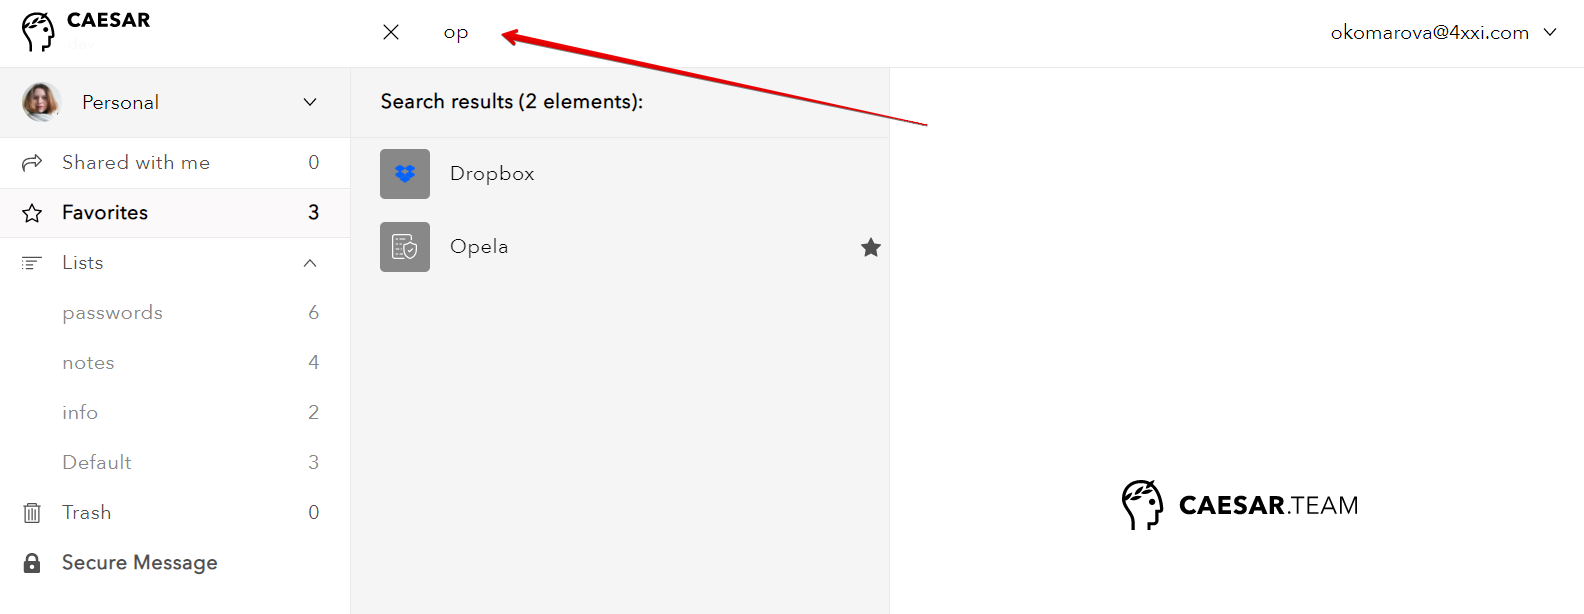
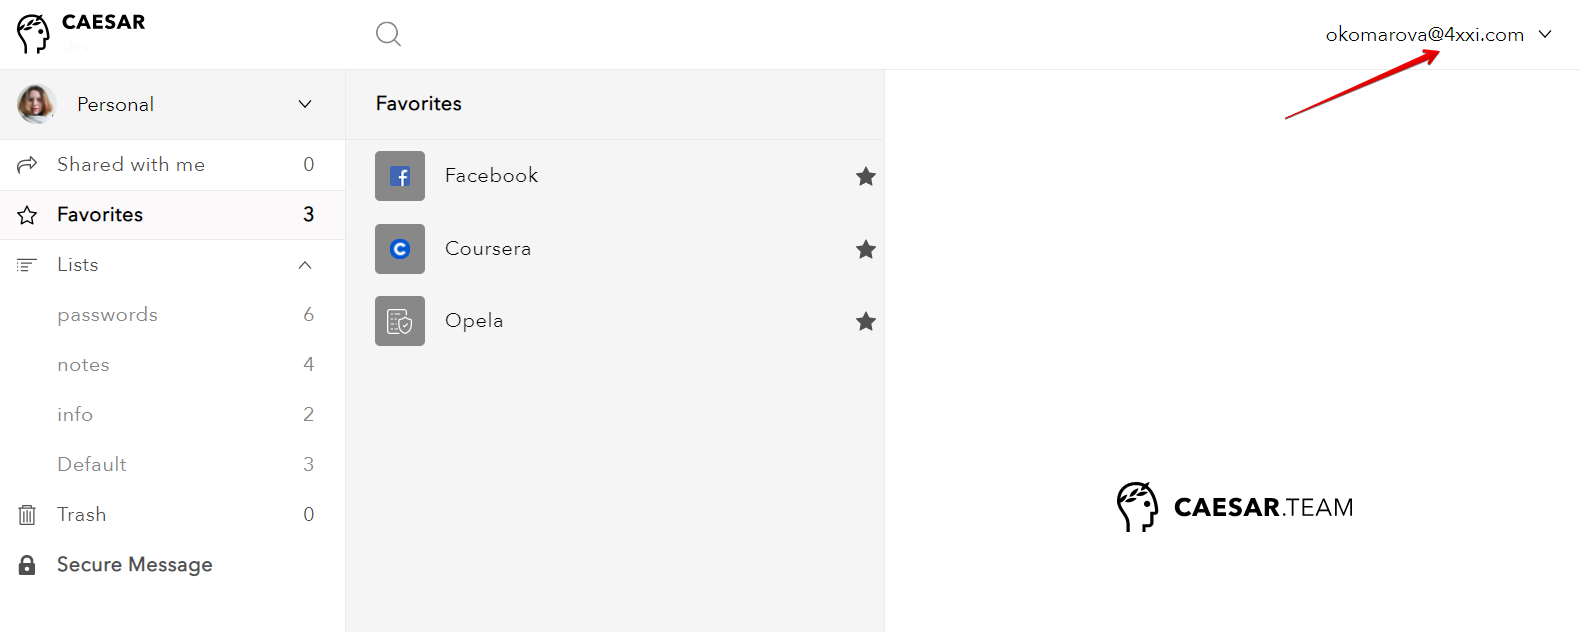
GitBook: [master] one page and 2 assets modified

diff --git a/user_docs/dashboard.md b/user_docs/dashboard.md
@@ -24,7 +24,7 @@ On the left-hand side of the dashboard you can see your lists, see [here](https:
 
 You have a search bar on top of the dashboard. If you want to find a secret start typing in the bar, and you'll see secrets, which fit the request.
 
-![](../.gitbook/assets/image%20%2878%29.png)
+![](../.gitbook/assets/image%20%2879%29.png)
 
 #### Secure messages
 
@@ -32,7 +32,7 @@ You can use built-in secure messages in Caesar.Team, see [here ](https://github.
 
 #### Settings and logout
 
-![](../.gitbook/assets/image%20%2874%29.png)
+![](../.gitbook/assets/image%20%2878%29.png)
 
 By clicking on your username you can:
 
